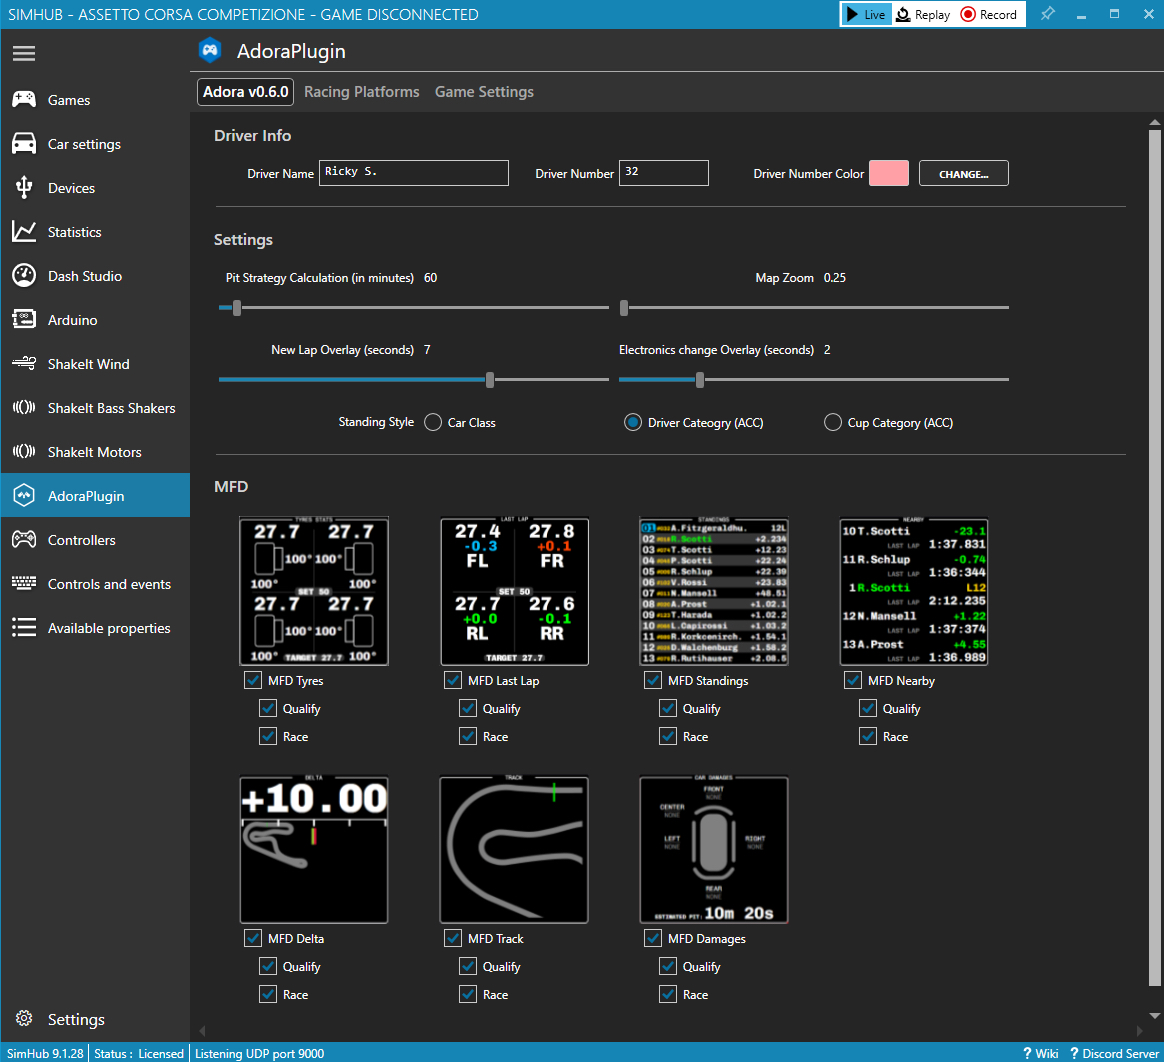
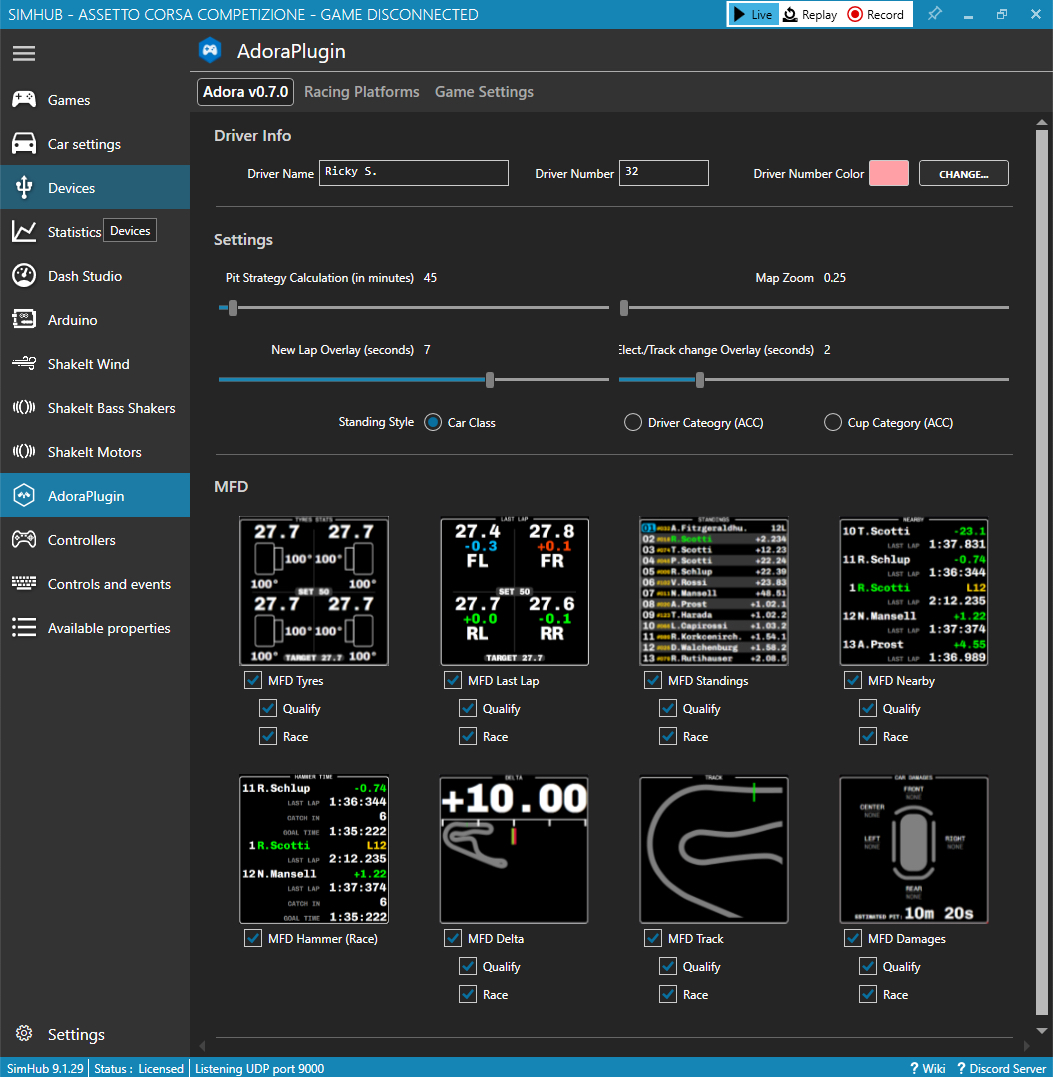
v0.7.0

diff --git a/doc/plugin.md b/doc/plugin.md
@@ -26,6 +26,7 @@ It will be visible only in practice and the race.
 - MFD Last Lap: It shows tire pressure and temperature, and brake temperature of the previous lap (average values).
 - MFD Standings: It shows session standings.
 - MFD Nearby: It shows who is in front and behind us.
+- MFD Hammer Time: It shows how to catch the car in front, and how to push the one back.
 - MFD Delta: A delta time and a small track view.
 - MFD Track: It shows the track and all the cars.
 - MFD Damage: It shows car damage status.

diff --git a/doc/walkthrough.md b/doc/walkthrough.md
@@ -1,0 +1,3 @@
+# WALKTHROUGH OF ADORADASH
+
+## General
